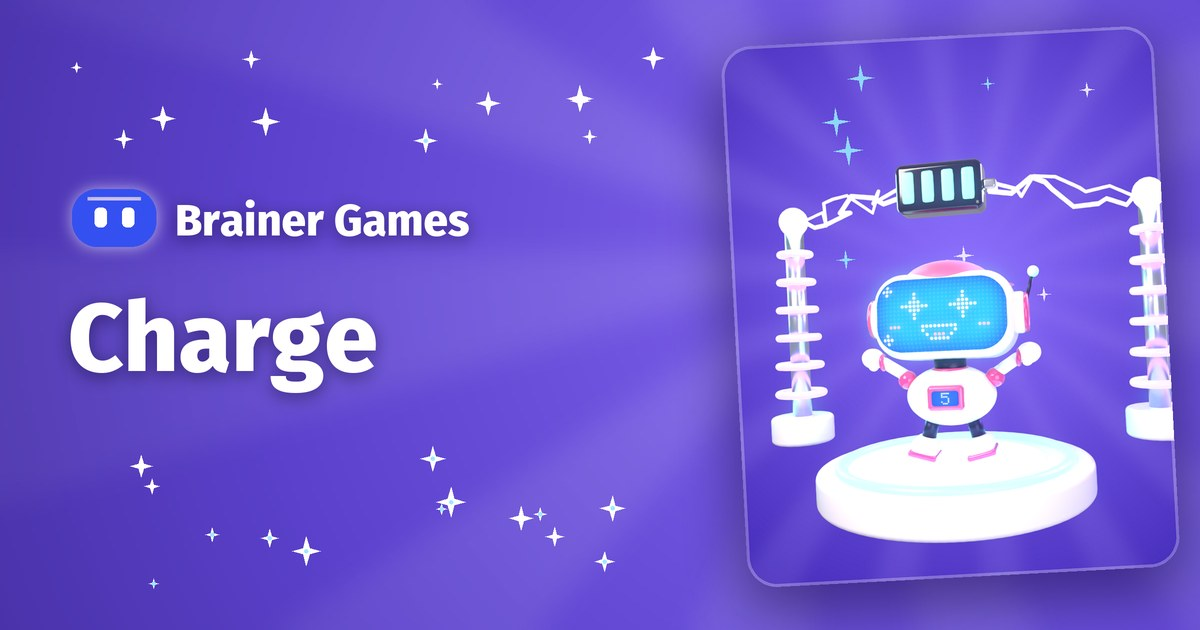
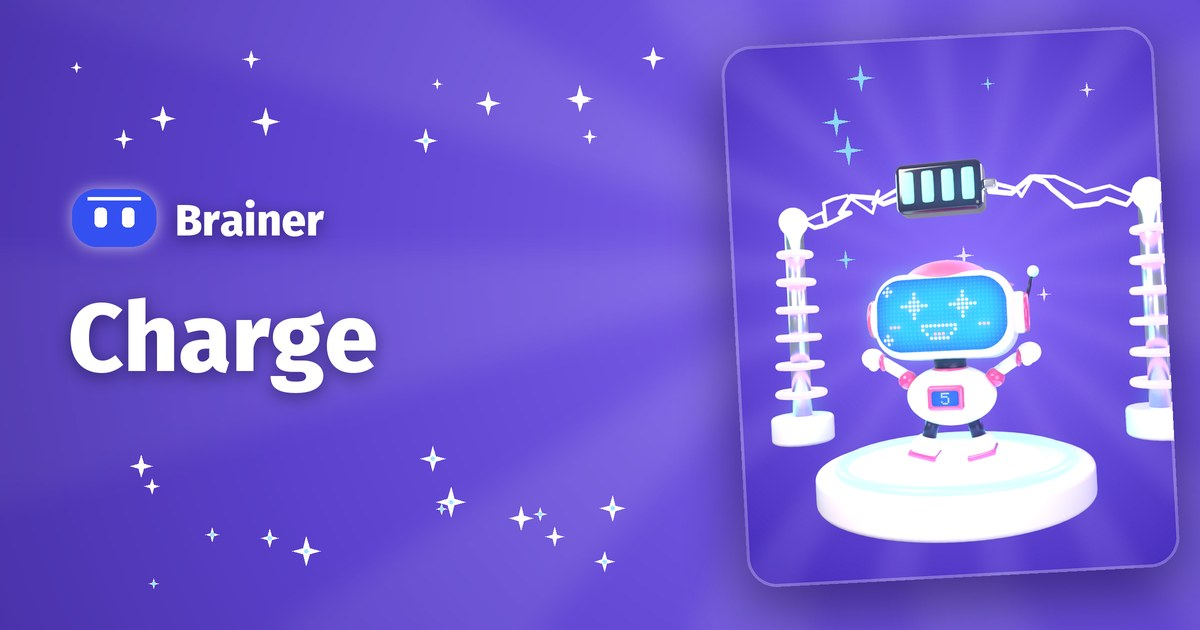
Brainer: the name, a solid white visor line, and no more B
Tornike's calls (2026-10-27):
- The name is "Brainer" everywhere; "Games" lives only in the domain. Page titles, link
  previews (og:title, og:site_name), descriptions, copy, terms, privacy, the consent line,
  SITE.brand and the inbox's reply subject all say Brainer.
- The line above the visor's eyes is solid white, always, instead of white at 30% that
  took the colour behind it: visor.svg, the inline logo, the share images, and the tab
  icon, which gets the line too.
- The B is retired: favicon.png is now the visor (192x192, for browsers without SVG
  icons), SITE.logo is gone (nothing read it), and the B PNGs went out in a026d61.
- The six share images are redrawn with "Brainer".

Changed region(s): [[0.2775, 0.3016, 0.4008, 0.3921], [0.0617, 0.3016, 0.1233, 0.3317]]

diff --git a/Website/contact.html b/Website/contact.html
@@ -4,19 +4,19 @@
 <meta charset="utf-8">
 <meta name="viewport" content="width=device-width, initial-scale=1, viewport-fit=cover">
 <meta name="robots" content="noindex">
-<title>Contact · Brainer Games</title>
-<meta name="description" content="Request a demo of Brainer Games' instant games for your casino or aggregator.">
+<title>Contact · Brainer</title>
+<meta name="description" content="Request a demo of Brainer's instant games for your casino or aggregator.">
 <!-- link preview -->
 <meta property="og:type" content="website">
-<meta property="og:site_name" content="Brainer Games">
-<meta property="og:title" content="Contact · Brainer Games">
-<meta property="og:description" content="Request a demo of Brainer Games&#x27; instant games for your casino or aggregator.">
+<meta property="og:site_name" content="Brainer">
+<meta property="og:title" content="Contact · Brainer">
+<meta property="og:description" content="Request a demo of Brainer&#x27;s instant games for your casino or aggregator.">
 <meta property="og:url" content="https://brainer.games/contact.html">
 <meta property="og:image" content="https://brainer.games/assets/share/brainer-games.jpg">
 <meta property="og:image:type" content="image/jpeg">
 <meta property="og:image:width" content="1200">
 <meta property="og:image:height" content="630">
-<meta property="og:image:alt" content="Brainer Games: instant games for casinos, with the Brainer in Plane Crash and Space Crash">
+<meta property="og:image:alt" content="Brainer: instant games for casinos, with the Brainer in Plane Crash and Space Crash">
 <meta name="twitter:card" content="summary_large_image">
 <!-- /link preview -->
 <meta name="theme-color" content="#532aff">
@@ -55,7 +55,7 @@
         <label class="field"><span>Aggregator or platform you use <i>optional</i></span><input name="platform" maxlength="200" placeholder="SOFTSWISS, Hub88, St8, own platform"></label>
         <label class="field"><span>Telegram or WhatsApp <i>optional</i></span><input name="messenger" maxlength="160" placeholder="@handle or +995…"></label>
         <label class="field full"><span>Message <i>optional</i></span><textarea name="message" maxlength="4000" placeholder="Which games interest you, and when do you plan to launch?"></textarea></label>
-        <label class="check full"><input type="checkbox" name="consent" required> <span>I agree that Brainer Games may use these details to reply to my enquiry, as described in our <a href="privacy.html">privacy notice</a>.</span><span class="err" hidden></span></label>
+        <label class="check full"><input type="checkbox" name="consent" required> <span>I agree that Brainer may use these details to reply to my enquiry, as described in our <a href="privacy.html">privacy notice</a>.</span><span class="err" hidden></span></label>
         <label class="check full"><input type="checkbox" name="news"> <span>Send me new game releases, about once a month.</span></label>
         <label class="hp" aria-hidden="true">Leave this empty<input name="fax" tabindex="-1" autocomplete="off"></label>
         <div class="full" style="display:flex;align-items:center;gap:16px;flex-wrap:wrap">
@@ -66,7 +66,7 @@
       <div class="form sent" id="formSent" tabindex="-1" hidden>
         <span class="ic-ok" aria-hidden="true"></span>
         <h2>Thanks, we&rsquo;ve got it</h2>
-        <p>Someone from Brainer Games will reply within one business day. Meanwhile, <a href="games.html">try any of our demos</a>, with play money only.</p>
+        <p>Someone from Brainer will reply within one business day. Meanwhile, <a href="games.html">try any of our demos</a>, with play money only.</p>
       </div>
 
       <aside class="side">

diff --git a/Website/terms.html b/Website/terms.html
@@ -4,19 +4,19 @@
 <meta charset="utf-8">
 <meta name="viewport" content="width=device-width, initial-scale=1, viewport-fit=cover">
 <meta name="robots" content="noindex">
-<title>Terms · Brainer Games</title>
-<meta name="description" content="Terms of use for the Brainer Games website and its game demos.">
+<title>Terms · Brainer</title>
+<meta name="description" content="Terms of use for the Brainer website and its game demos.">
 <!-- link preview -->
 <meta property="og:type" content="website">
-<meta property="og:site_name" content="Brainer Games">
-<meta property="og:title" content="Terms · Brainer Games">
-<meta property="og:description" content="Terms of use for the Brainer Games website and its game demos.">
+<meta property="og:site_name" content="Brainer">
+<meta property="og:title" content="Terms · Brainer">
+<meta property="og:description" content="Terms of use for the Brainer website and its game demos.">
 <meta property="og:url" content="https://brainer.games/terms.html">
 <meta property="og:image" content="https://brainer.games/assets/share/brainer-games.jpg">
 <meta property="og:image:type" content="image/jpeg">
 <meta property="og:image:width" content="1200">
 <meta property="og:image:height" content="630">
-<meta property="og:image:alt" content="Brainer Games: instant games for casinos, with the Brainer in Plane Crash and Space Crash">
+<meta property="og:image:alt" content="Brainer: instant games for casinos, with the Brainer in Plane Crash and Space Crash">
 <meta name="twitter:card" content="summary_large_image">
 <!-- /link preview -->
 <meta name="theme-color" content="#532aff">
@@ -44,7 +44,7 @@
       <h2>Numbers can change</h2>
       <p>The games have not been certified yet. Their RTP, multipliers, limits and features, including brain levels, are provisional and may change before release. Brain levels are cosmetic and never change the odds or payouts.</p>
       <h2>Our content</h2>
-      <p>The games, the Brainer characters, the logos and the text on this site belong to Brainer Games. Please do not copy or reuse them without our permission. If you would like to show our games to someone, link to this site.</p>
+      <p>The games, the Brainer characters, the logos and the text on this site belong to Brainer. Please do not copy or reuse them without our permission. If you would like to show our games to someone, link to this site.</p>
       <h2>No guarantees</h2>
       <p>We provide the site and the demos as they are, and may change them or take them offline at any time. We are not liable for any loss from using them.</p>
       <h2>Changes</h2>

diff --git a/Website/privacy.html b/Website/privacy.html
@@ -4,19 +4,19 @@
 <meta charset="utf-8">
 <meta name="viewport" content="width=device-width, initial-scale=1, viewport-fit=cover">
 <meta name="robots" content="noindex">
-<title>Privacy · Brainer Games</title>
-<meta name="description" content="How the Brainer Games website and its demos handle your data.">
+<title>Privacy · Brainer</title>
+<meta name="description" content="How the Brainer website and its demos handle your data.">
 <!-- link preview -->
 <meta property="og:type" content="website">
-<meta property="og:site_name" content="Brainer Games">
-<meta property="og:title" content="Privacy · Brainer Games">
-<meta property="og:description" content="How the Brainer Games website and its demos handle your data.">
+<meta property="og:site_name" content="Brainer">
+<meta property="og:title" content="Privacy · Brainer">
+<meta property="og:description" content="How the Brainer website and its demos handle your data.">
 <meta property="og:url" content="https://brainer.games/privacy.html">
 <meta property="og:image" content="https://brainer.games/assets/share/brainer-games.jpg">
 <meta property="og:image:type" content="image/jpeg">
 <meta property="og:image:width" content="1200">
 <meta property="og:image:height" content="630">
-<meta property="og:image:alt" content="Brainer Games: instant games for casinos, with the Brainer in Plane Crash and Space Crash">
+<meta property="og:image:alt" content="Brainer: instant games for casinos, with the Brainer in Plane Crash and Space Crash">
 <meta name="twitter:card" content="summary_large_image">
 <!-- /link preview -->
 <meta name="theme-color" content="#532aff">
@@ -45,7 +45,7 @@
         <li><code>brainer.sound</code>: whether the game sound is on.</li>
         <li><code>brainer.xp</code> and <code>brainer.level</code>: your Brainer&rsquo;s brain cells and brain level, shared by the demos.</li>
         <li><code>brainer.world</code>: which world you last flew in, in Plane Crash.</li>
-        <li><code>brainer.intro</code> (kept only until you close the tab): that the Brainer Games intro has already played.</li>
+        <li><code>brainer.intro</code> (kept only until you close the tab): that the Brainer intro has already played.</li>
         <li><code>brainer.theme</code>: light or dark mode, if you picked one with the switch in the header.</li>
       </ul>
       <p>You can delete them at any time by clearing this site&rsquo;s data in your browser settings. The demo balance is not stored.</p>

diff --git a/Website/index.html b/Website/index.html
@@ -4,19 +4,19 @@
 <meta charset="utf-8">
 <meta name="viewport" content="width=device-width, initial-scale=1, viewport-fit=cover">
 <meta name="robots" content="noindex">
-<title>Brainer Games · Instant games for casinos</title>
-<meta name="description" content="Brainer Games makes instant games for casinos: crash and charge games with playable demos, one Brainer character across every title, and every round provably fair.">
+<title>Brainer · Instant games for casinos</title>
+<meta name="description" content="Brainer makes instant games for casinos: crash and charge games with playable demos, one Brainer character across every title, and every round provably fair.">
 <!-- link preview -->
 <meta property="og:type" content="website">
-<meta property="og:site_name" content="Brainer Games">
-<meta property="og:title" content="Brainer Games · Instant games for casinos">
-<meta property="og:description" content="Brainer Games makes instant games for casinos: crash and charge games with playable demos, one Brainer character across every title, and every round provably fair.">
+<meta property="og:site_name" content="Brainer">
+<meta property="og:title" content="Brainer · Instant games for casinos">
+<meta property="og:description" content="Brainer makes instant games for casinos: crash and charge games with playable demos, one Brainer character across every title, and every round provably fair.">
 <meta property="og:url" content="https://brainer.games/">
 <meta property="og:image" content="https://brainer.games/assets/share/brainer-games.jpg">
 <meta property="og:image:type" content="image/jpeg">
 <meta property="og:image:width" content="1200">
 <meta property="og:image:height" content="630">
-<meta property="og:image:alt" content="Brainer Games: instant games for casinos, with the Brainer in Plane Crash and Space Crash">
+<meta property="og:image:alt" content="Brainer: instant games for casinos, with the Brainer in Plane Crash and Space Crash">
 <meta name="twitter:card" content="summary_large_image">
 <!-- /link preview -->
 <meta name="theme-color" content="#532aff">
@@ -30,7 +30,7 @@
 <header id="site-header"></header>
 
 <main>
-  <h1 class="sr-only">Brainer Games: instant games for casinos</h1>
+  <h1 class="sr-only">Brainer: instant games for casinos</h1>
   <section class="lobby-top" aria-label="Featured games">
     <div class="wrap">
       <div class="feature" data-feature></div>

diff --git a/Website/fairness.html b/Website/fairness.html
@@ -4,19 +4,19 @@
 <meta charset="utf-8">
 <meta name="viewport" content="width=device-width, initial-scale=1, viewport-fit=cover">
 <meta name="robots" content="noindex">
-<title>Provably fair · Brainer Games</title>
-<meta name="description" content="How every Brainer Games round is fixed in advance and can be checked afterwards, with a working checker.">
+<title>Provably fair · Brainer</title>
+<meta name="description" content="How every Brainer round is fixed in advance and can be checked afterwards, with a working checker.">
 <!-- link preview -->
 <meta property="og:type" content="website">
-<meta property="og:site_name" content="Brainer Games">
-<meta property="og:title" content="Provably fair · Brainer Games">
-<meta property="og:description" content="How every Brainer Games round is fixed in advance and can be checked afterwards, with a working checker.">
+<meta property="og:site_name" content="Brainer">
+<meta property="og:title" content="Provably fair · Brainer">
+<meta property="og:description" content="How every Brainer round is fixed in advance and can be checked afterwards, with a working checker.">
 <meta property="og:url" content="https://brainer.games/fairness.html">
 <meta property="og:image" content="https://brainer.games/assets/share/brainer-games.jpg">
 <meta property="og:image:type" content="image/jpeg">
 <meta property="og:image:width" content="1200">
 <meta property="og:image:height" content="630">
-<meta property="og:image:alt" content="Brainer Games: instant games for casinos, with the Brainer in Plane Crash and Space Crash">
+<meta property="og:image:alt" content="Brainer: instant games for casinos, with the Brainer in Plane Crash and Space Crash">
 <meta name="twitter:card" content="summary_large_image">
 <!-- /link preview -->
 <meta name="theme-color" content="#532aff">

diff --git a/Website/responsible-gaming.html b/Website/responsible-gaming.html
@@ -4,19 +4,19 @@
 <meta charset="utf-8">
 <meta name="viewport" content="width=device-width, initial-scale=1, viewport-fit=cover">
 <meta name="robots" content="noindex">
-<title>Responsible gaming · Brainer Games</title>
-<meta name="description" content="Brainer Games is for adults only. How to keep play safe, and where to find help.">
+<title>Responsible gaming · Brainer</title>
+<meta name="description" content="Brainer is for adults only. How to keep play safe, and where to find help.">
 <!-- link preview -->
 <meta property="og:type" content="website">
-<meta property="og:site_name" content="Brainer Games">
-<meta property="og:title" content="Responsible gaming · Brainer Games">
-<meta property="og:description" content="Brainer Games is for adults only. How to keep play safe, and where to find help.">
+<meta property="og:site_name" content="Brainer">
+<meta property="og:title" content="Responsible gaming · Brainer">
+<meta property="og:description" content="Brainer is for adults only. How to keep play safe, and where to find help.">
 <meta property="og:url" content="https://brainer.games/responsible-gaming.html">
 <meta property="og:image" content="https://brainer.games/assets/share/brainer-games.jpg">
 <meta property="og:image:type" content="image/jpeg">
 <meta property="og:image:width" content="1200">
 <meta property="og:image:height" content="630">
-<meta property="og:image:alt" content="Brainer Games: instant games for casinos, with the Brainer in Plane Crash and Space Crash">
+<meta property="og:image:alt" content="Brainer: instant games for casinos, with the Brainer in Plane Crash and Space Crash">
 <meta name="twitter:card" content="summary_large_image">
 <!-- /link preview -->
 <meta name="theme-color" content="#532aff">

diff --git a/Website/game.html b/Website/game.html
@@ -4,19 +4,19 @@
 <meta charset="utf-8">
 <meta name="viewport" content="width=device-width, initial-scale=1, viewport-fit=cover">
 <meta name="robots" content="noindex">
-<title>Game · Brainer Games</title>
-<meta name="description" content="Play the Brainer Games demo with play money, then check its rules, difficulties and specs.">
+<title>Game · Brainer</title>
+<meta name="description" content="Play the Brainer demo with play money, then check its rules, difficulties and specs.">
 <!-- link preview -->
 <meta property="og:type" content="website">
-<meta property="og:site_name" content="Brainer Games">
-<meta property="og:title" content="Game · Brainer Games">
-<meta property="og:description" content="Play the Brainer Games demo with play money, then check its rules, difficulties and specs.">
+<meta property="og:site_name" content="Brainer">
+<meta property="og:title" content="Game · Brainer">
+<meta property="og:description" content="Play the Brainer demo with play money, then check its rules, difficulties and specs.">
 <meta property="og:url" content="https://brainer.games/game.html">
 <meta property="og:image" content="https://brainer.games/assets/share/brainer-games.jpg">
 <meta property="og:image:type" content="image/jpeg">
 <meta property="og:image:width" content="1200">
 <meta property="og:image:height" content="630">
-<meta property="og:image:alt" content="Brainer Games: instant games for casinos, with the Brainer in Plane Crash and Space Crash">
+<meta property="og:image:alt" content="Brainer: instant games for casinos, with the Brainer in Plane Crash and Space Crash">
 <meta name="twitter:card" content="summary_large_image">
 <!-- /link preview -->
 <meta name="theme-color" content="#532aff">

diff --git a/Website/games.html b/Website/games.html
@@ -4,19 +4,19 @@
 <meta charset="utf-8">
 <meta name="viewport" content="width=device-width, initial-scale=1, viewport-fit=cover">
 <meta name="robots" content="noindex">
-<title>Games · Brainer Games</title>
-<meta name="description" content="Brainer Games' instant games, with playable demos and the numbers operators check.">
+<title>Games · Brainer</title>
+<meta name="description" content="Brainer's instant games, with playable demos and the numbers operators check.">
 <!-- link preview -->
 <meta property="og:type" content="website">
-<meta property="og:site_name" content="Brainer Games">
-<meta property="og:title" content="Games · Brainer Games">
-<meta property="og:description" content="Brainer Games&#x27; instant games, with playable demos and the numbers operators check.">
+<meta property="og:site_name" content="Brainer">
+<meta property="og:title" content="Games · Brainer">
+<meta property="og:description" content="Brainer&#x27;s instant games, with playable demos and the numbers operators check.">
 <meta property="og:url" content="https://brainer.games/games.html">
 <meta property="og:image" content="https://brainer.games/assets/share/brainer-games.jpg">
 <meta property="og:image:type" content="image/jpeg">
 <meta property="og:image:width" content="1200">
 <meta property="og:image:height" content="630">
-<meta property="og:image:alt" content="Brainer Games: instant games for casinos, with the Brainer in Plane Crash and Space Crash">
+<meta property="og:image:alt" content="Brainer: instant games for casinos, with the Brainer in Plane Crash and Space Crash">
 <meta name="twitter:card" content="summary_large_image">
 <!-- /link preview -->
 <meta name="theme-color" content="#532aff">

diff --git a/Website/operators.html b/Website/operators.html
@@ -4,19 +4,19 @@
 <meta charset="utf-8">
 <meta name="viewport" content="width=device-width, initial-scale=1, viewport-fit=cover">
 <meta name="robots" content="noindex">
-<title>For operators · Brainer Games</title>
+<title>For operators · Brainer</title>
 <meta name="description" content="What casinos and aggregators get with a Brainer game: playable demos, one character across every title, provably fair rounds, promo tools on the roadmap and a studio that answers.">
 <!-- link preview -->
 <meta property="og:type" content="website">
-<meta property="og:site_name" content="Brainer Games">
-<meta property="og:title" content="For operators · Brainer Games">
+<meta property="og:site_name" content="Brainer">
+<meta property="og:title" content="For operators · Brainer">
 <meta property="og:description" content="What casinos and aggregators get with a Brainer game: playable demos, one character across every title, provably fair rounds, promo tools on the roadmap and a studio that answers.">
 <meta property="og:url" content="https://brainer.games/operators.html">
 <meta property="og:image" content="https://brainer.games/assets/share/brainer-games.jpg">
 <meta property="og:image:type" content="image/jpeg">
 <meta property="og:image:width" content="1200">
 <meta property="og:image:height" content="630">
-<meta property="og:image:alt" content="Brainer Games: instant games for casinos, with the Brainer in Plane Crash and Space Crash">
+<meta property="og:image:alt" content="Brainer: instant games for casinos, with the Brainer in Plane Crash and Space Crash">
 <meta name="twitter:card" content="summary_large_image">
 <!-- /link preview -->
 <meta name="theme-color" content="#532aff">

diff --git a/Website/game-multi-charge.html b/Website/game-multi-charge.html
@@ -4,19 +4,19 @@
 <meta charset="utf-8">
 <meta name="viewport" content="width=device-width, initial-scale=1, viewport-fit=cover">
 <meta name="robots" content="noindex">
-<title>Multi Charge · Brainer Games</title>
+<title>Multi Charge · Brainer</title>
 <meta name="description" content="Five charging pillars, one pick per charge. Pick a safe one to level your Brainer up, then cash out. A playable demo with play money, for 18+.">
 <!-- link preview -->
 <meta property="og:type" content="website">
-<meta property="og:site_name" content="Brainer Games">
-<meta property="og:title" content="Multi Charge · Brainer Games">
+<meta property="og:site_name" content="Brainer">
+<meta property="og:title" content="Multi Charge · Brainer">
 <meta property="og:description" content="Five charging pillars, one pick per charge. Pick a safe one to level your Brainer up, then cash out. A playable demo with play money, for 18+.">
 <meta property="og:url" content="https://brainer.games/game-multi-charge.html">
 <meta property="og:image" content="https://brainer.games/assets/share/multi-charge.jpg">
 <meta property="og:image:type" content="image/jpeg">
 <meta property="og:image:width" content="1200">
 <meta property="og:image:height" content="630">
-<meta property="og:image:alt" content="Multi Charge by Brainer Games, with the Brainer in the game">
+<meta property="og:image:alt" content="Multi Charge by Brainer, with the Brainer in the game">
 <meta name="twitter:card" content="summary_large_image">
 <!-- /link preview -->
 <meta name="theme-color" content="#532aff">

diff --git a/Website/game-space-crash.html b/Website/game-space-crash.html
@@ -4,19 +4,19 @@
 <meta charset="utf-8">
 <meta name="viewport" content="width=device-width, initial-scale=1, viewport-fit=cover">
 <meta name="robots" content="noindex">
-<title>Space Crash · Brainer Games</title>
+<title>Space Crash · Brainer</title>
 <meta name="description" content="Five shield drones block every row. Shoot one: break it and fly on, or cash out with your win. A playable demo with play money, for 18+.">
 <!-- link preview -->
 <meta property="og:type" content="website">
-<meta property="og:site_name" content="Brainer Games">
-<meta property="og:title" content="Space Crash · Brainer Games">
+<meta property="og:site_name" content="Brainer">
+<meta property="og:title" content="Space Crash · Brainer">
 <meta property="og:description" content="Five shield drones block every row. Shoot one: break it and fly on, or cash out with your win. A playable demo with play money, for 18+.">
 <meta property="og:url" content="https://brainer.games/game-space-crash.html">
 <meta property="og:image" content="https://brainer.games/assets/share/space-crash.jpg">
 <meta property="og:image:type" content="image/jpeg">
 <meta property="og:image:width" content="1200">
 <meta property="og:image:height" content="630">
-<meta property="og:image:alt" content="Space Crash by Brainer Games, with the Brainer in the game">
+<meta property="og:image:alt" content="Space Crash by Brainer, with the Brainer in the game">
 <meta name="twitter:card" content="summary_large_image">
 <!-- /link preview -->
 <meta name="theme-color" content="#532aff">

diff --git a/Website/game-plane-crash.html b/Website/game-plane-crash.html
@@ -4,19 +4,19 @@
 <meta charset="utf-8">
 <meta name="viewport" content="width=device-width, initial-scale=1, viewport-fit=cover">
 <meta name="robots" content="noindex">
-<title>Plane Crash · Brainer Games</title>
+<title>Plane Crash · Brainer</title>
 <meta name="description" content="Pick one of five paths while bombs fall ahead. Bail out with the parachute to cash out. A playable demo with play money, for 18+.">
 <!-- link preview -->
 <meta property="og:type" content="website">
-<meta property="og:site_name" content="Brainer Games">
-<meta property="og:title" content="Plane Crash · Brainer Games">
+<meta property="og:site_name" content="Brainer">
+<meta property="og:title" content="Plane Crash · Brainer">
 <meta property="og:description" content="Pick one of five paths while bombs fall ahead. Bail out with the parachute to cash out. A playable demo with play money, for 18+.">
 <meta property="og:url" content="https://brainer.games/game-plane-crash.html">
 <meta property="og:image" content="https://brainer.games/assets/share/plane-crash.jpg">
 <meta property="og:image:type" content="image/jpeg">
 <meta property="og:image:width" content="1200">
 <meta property="og:image:height" content="630">
-<meta property="og:image:alt" content="Plane Crash by Brainer Games, with the Brainer in the game">
+<meta property="og:image:alt" content="Plane Crash by Brainer, with the Brainer in the game">
 <meta name="twitter:card" content="summary_large_image">
 <!-- /link preview -->
 <meta name="theme-color" content="#532aff">
